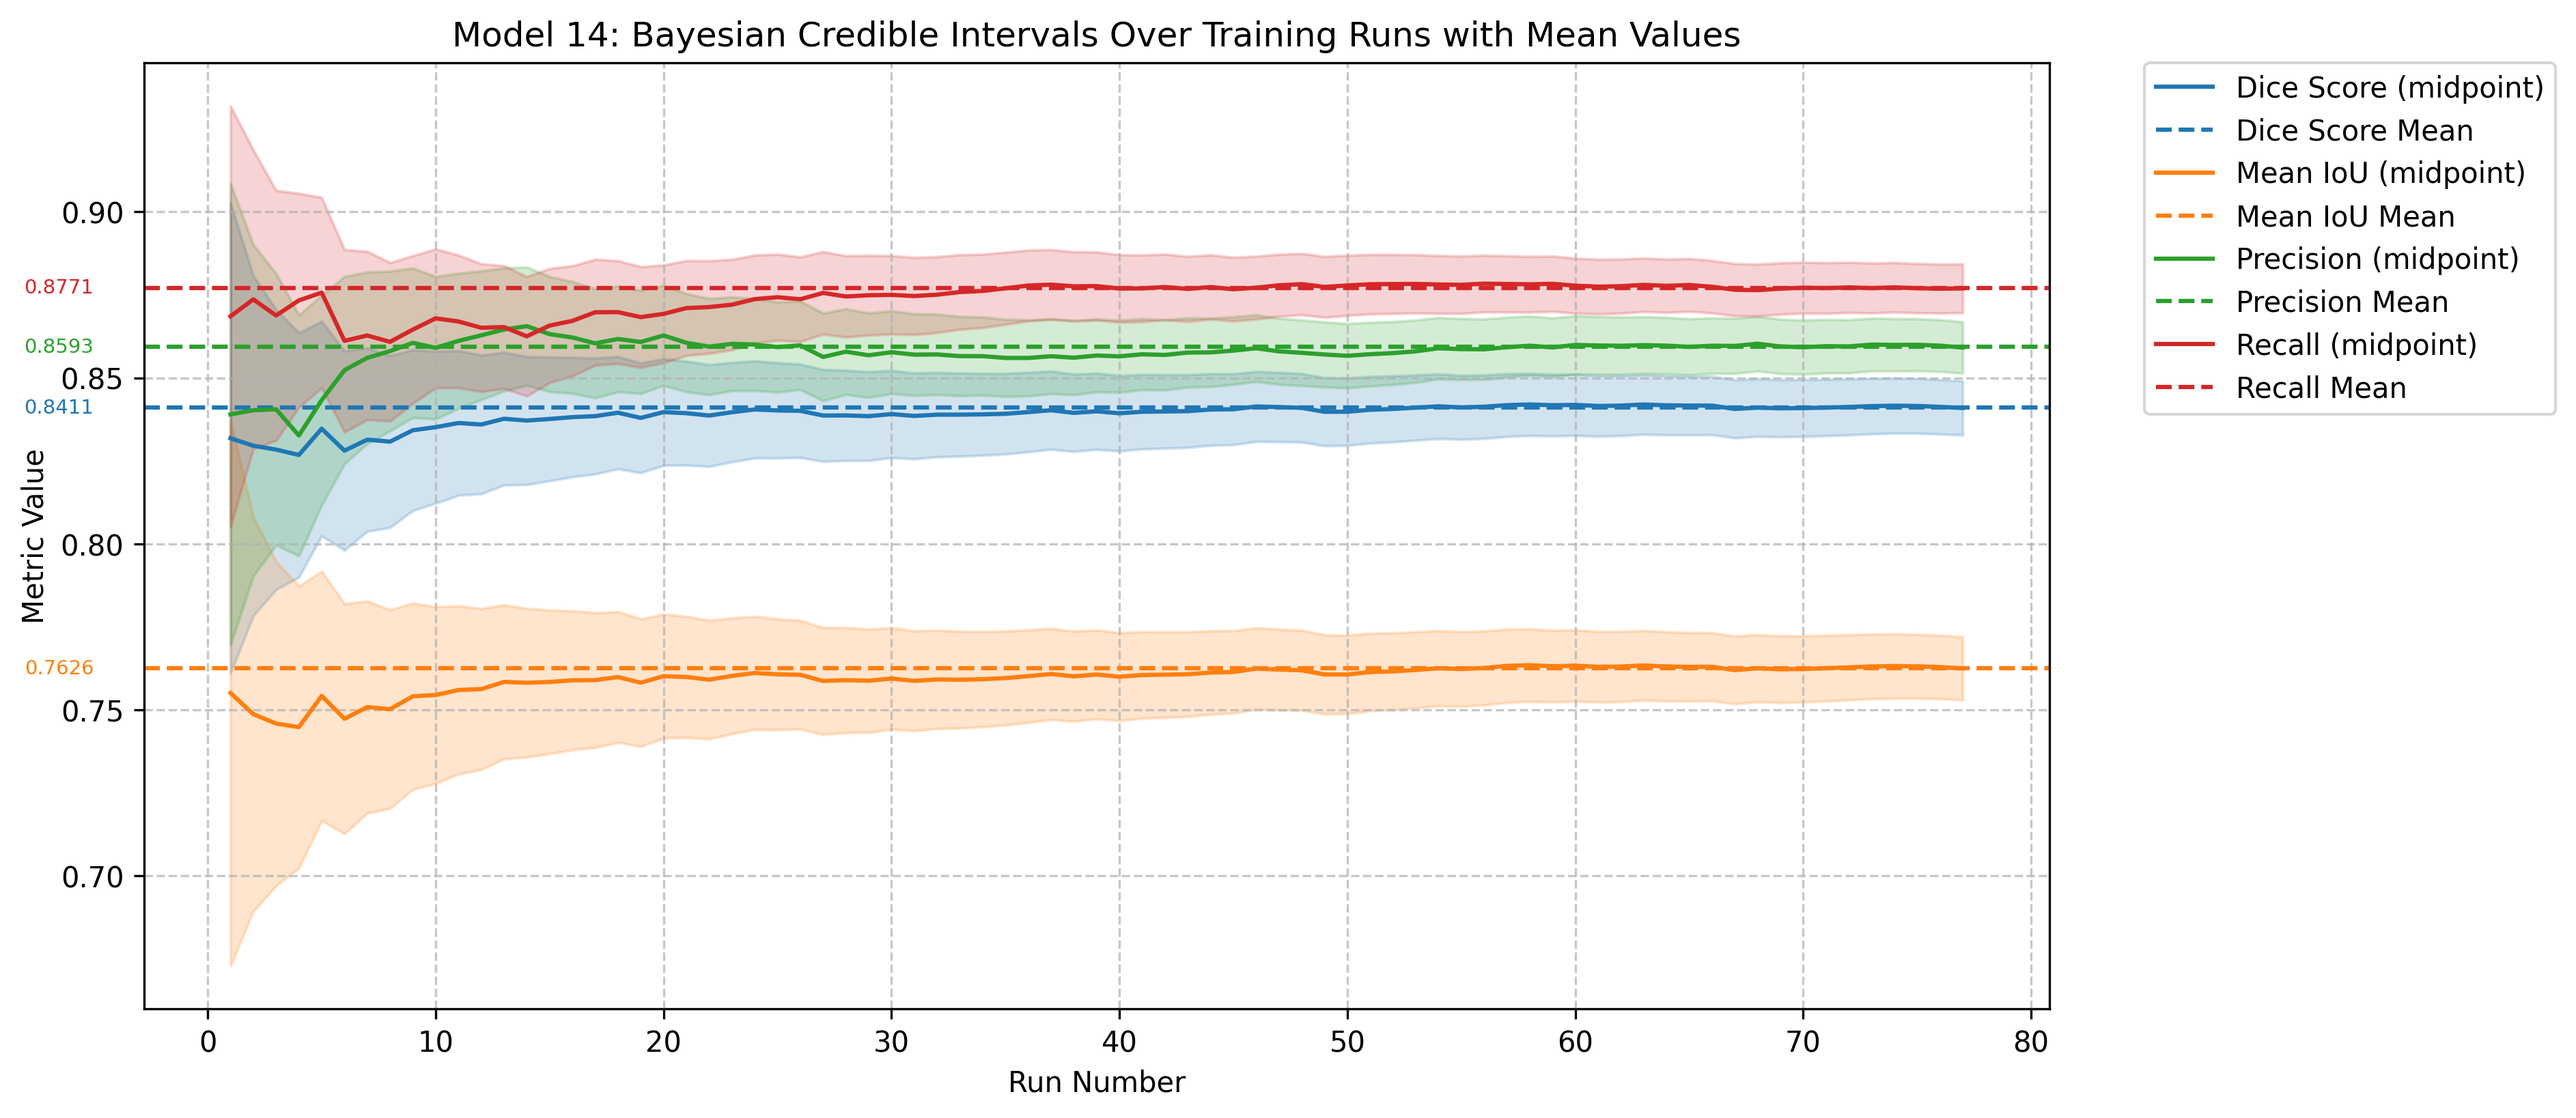
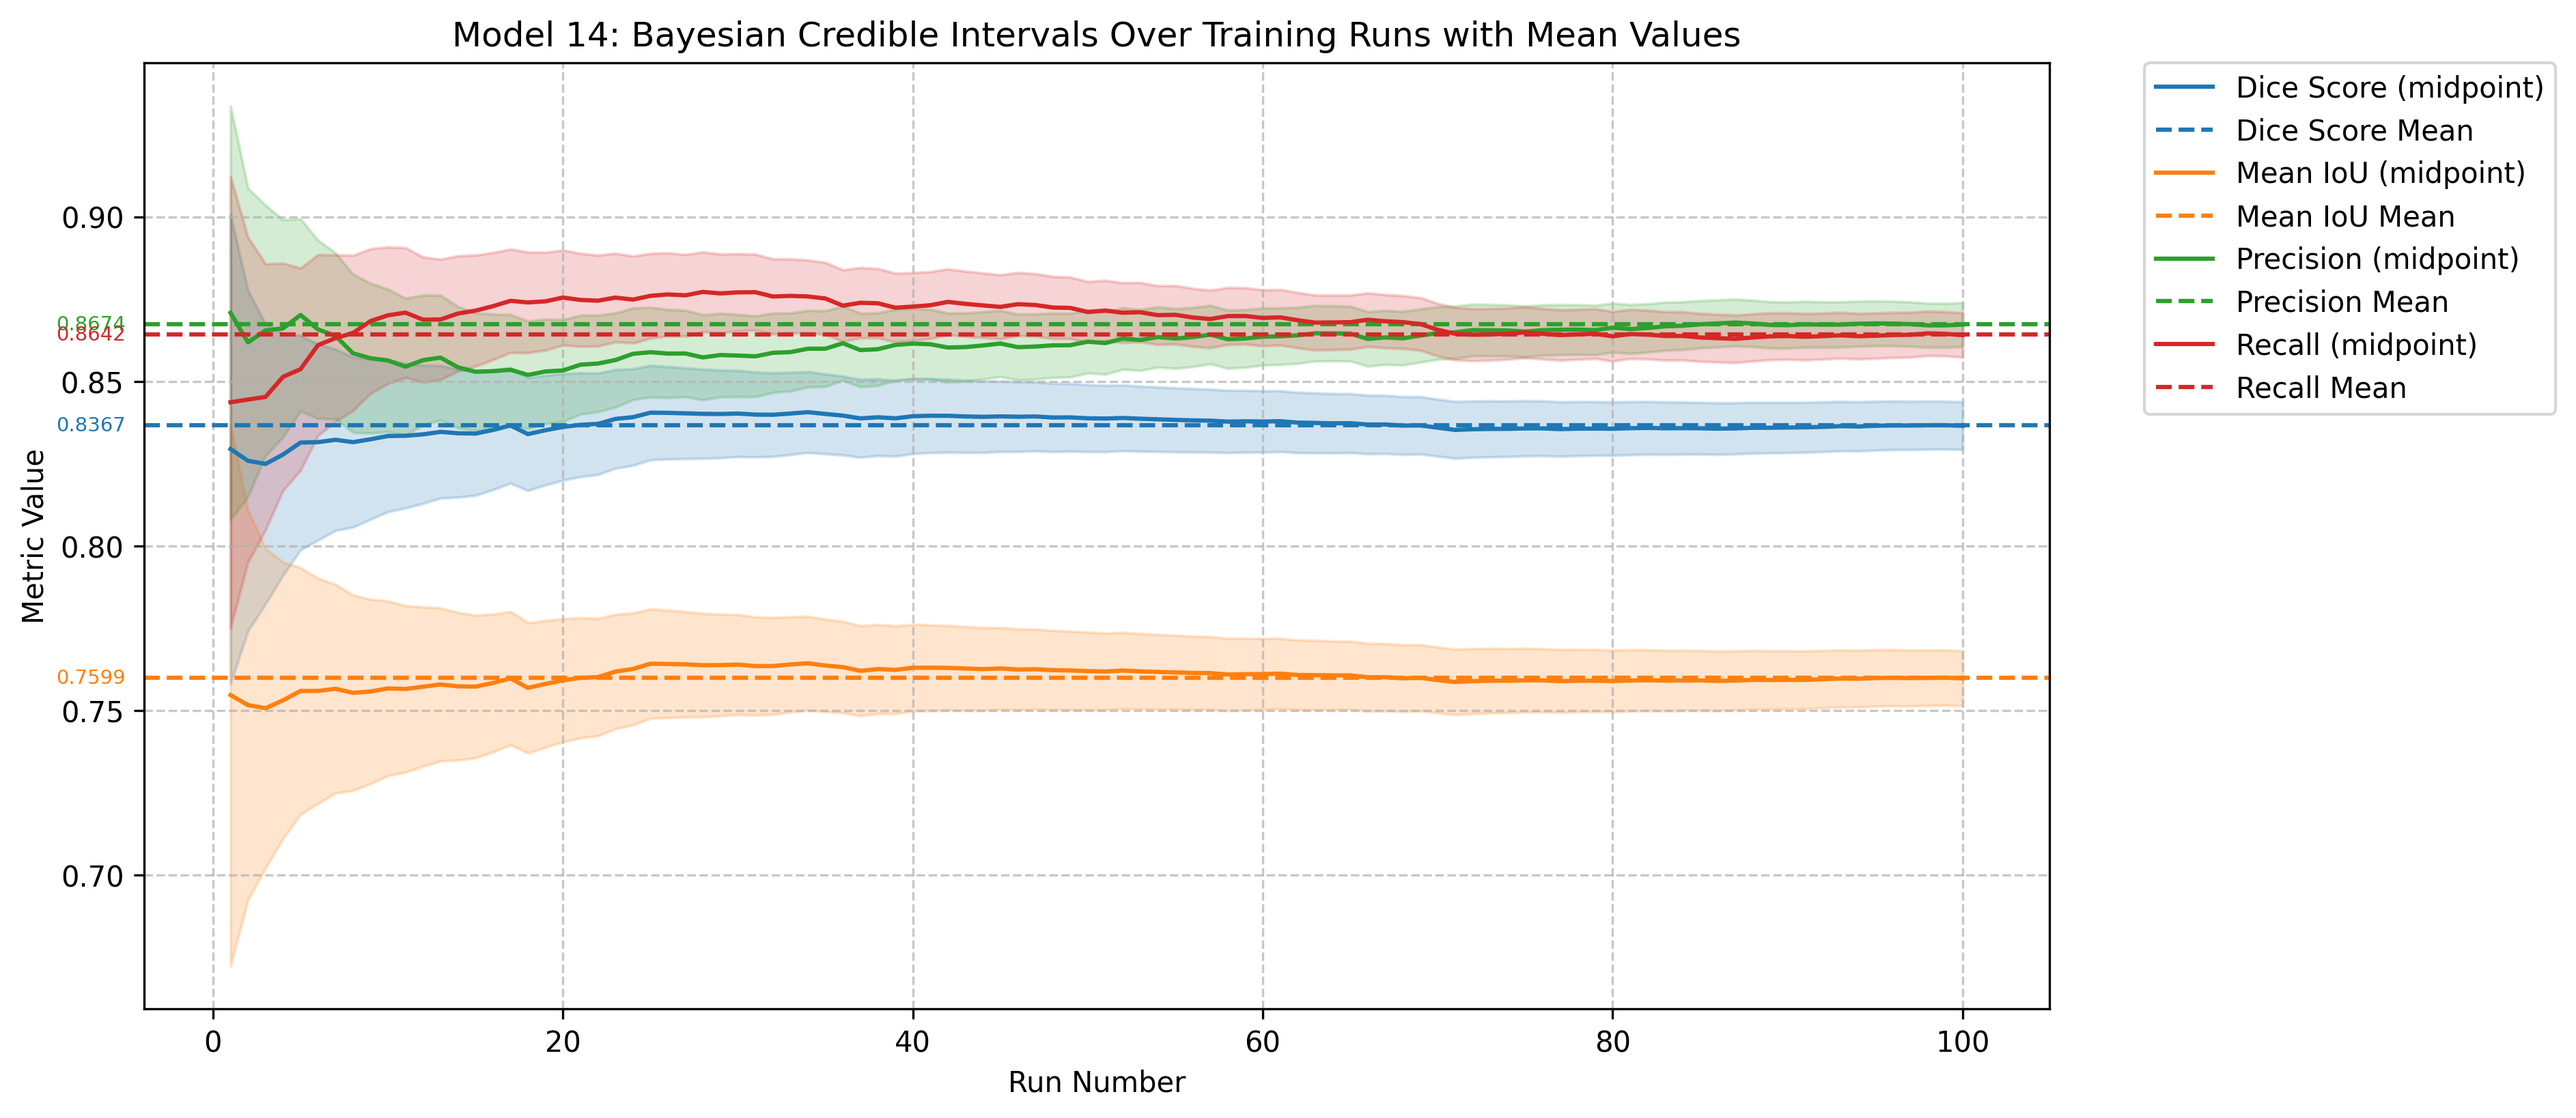
F17 results

diff --git a/analyse_results.py b/analyse_results.py
@@ -4,7 +4,7 @@ import matplotlib.pyplot as plt
 import seaborn as sns
 
 # File path
-file_path = "training_results_F14.txt"
+file_path = "training_results_F17.txt"
 
 # Updated regex pattern to extract the two dictionaries
 dict_pattern = re.compile(r"Run \d+: (\{.*?\}), Credible Intervals: (\{.*?\})")
